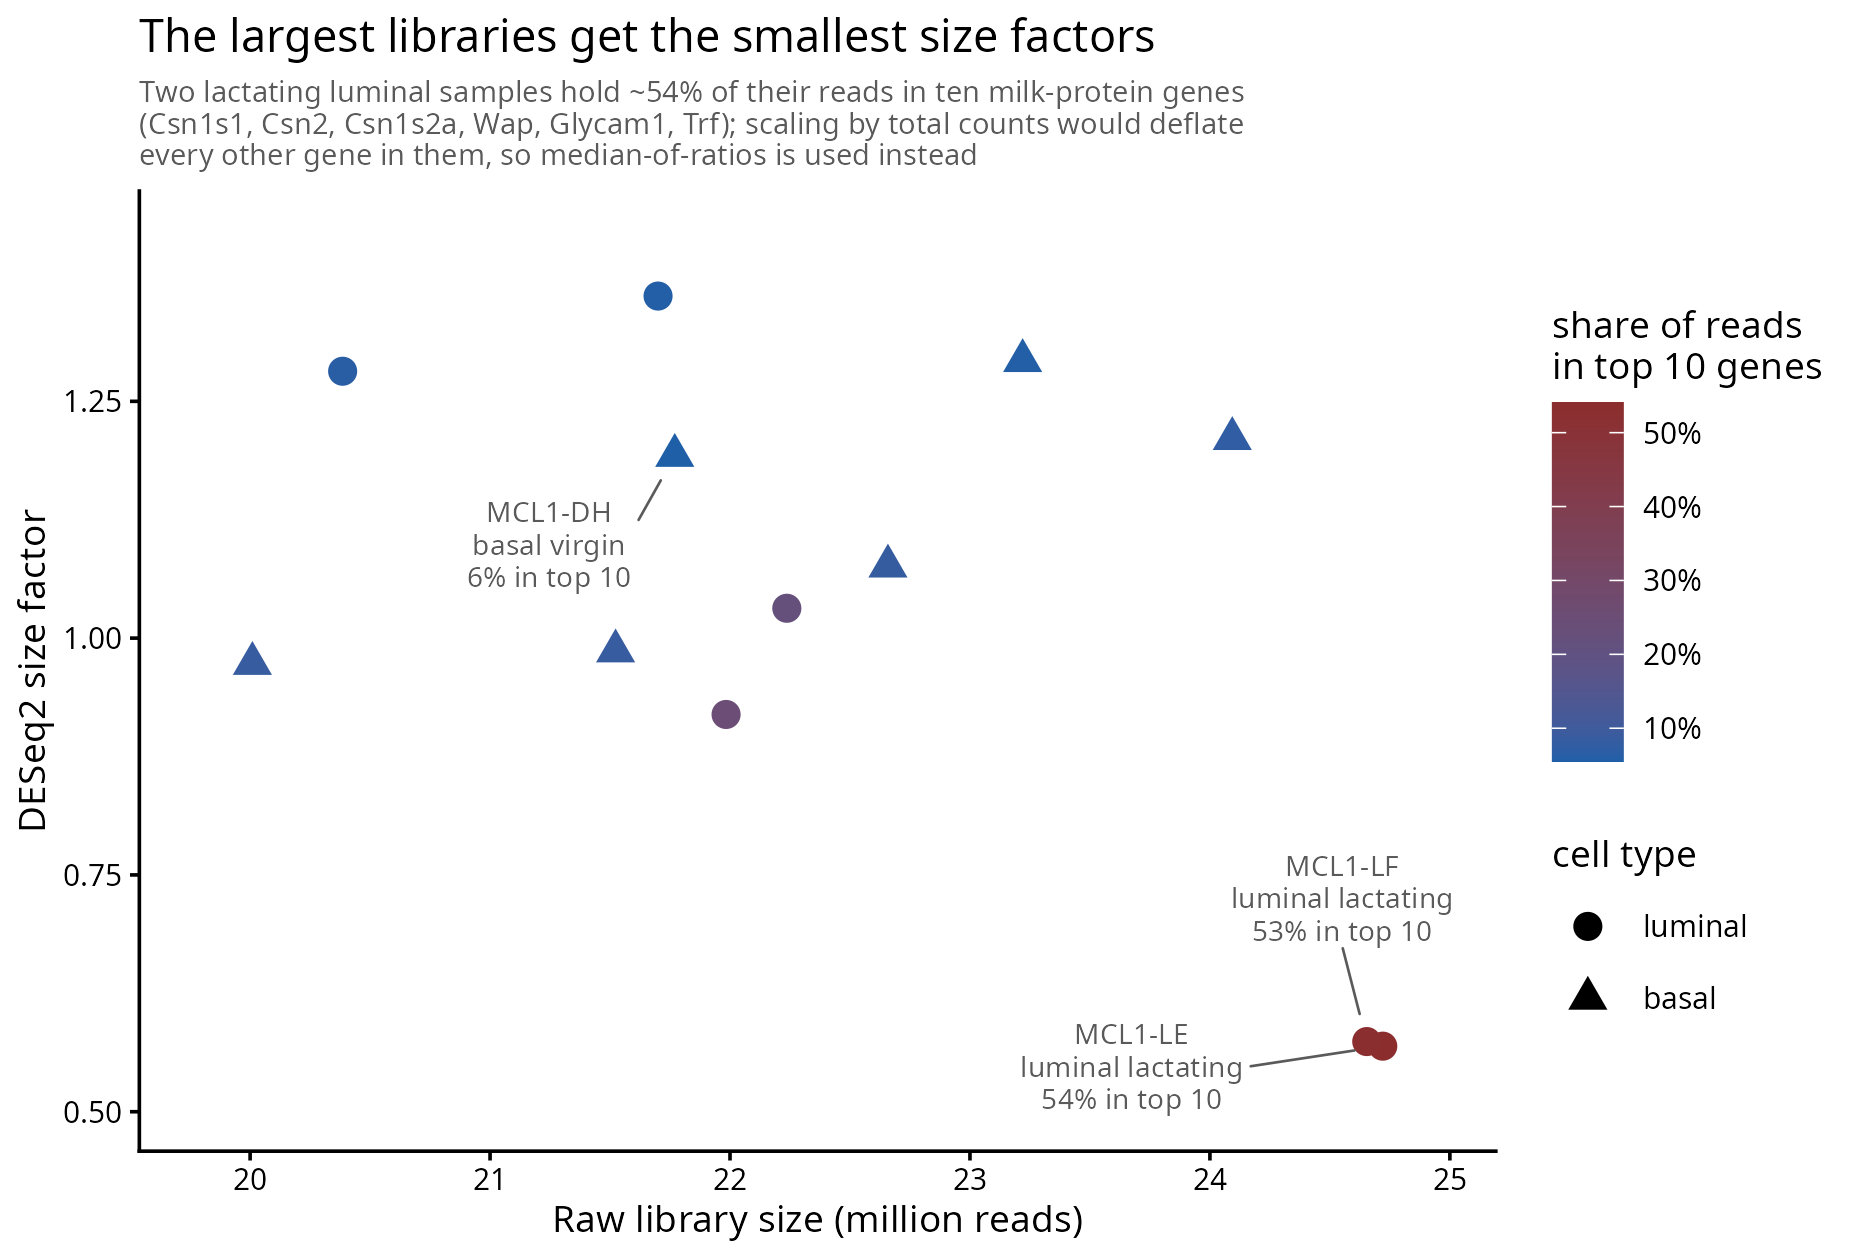
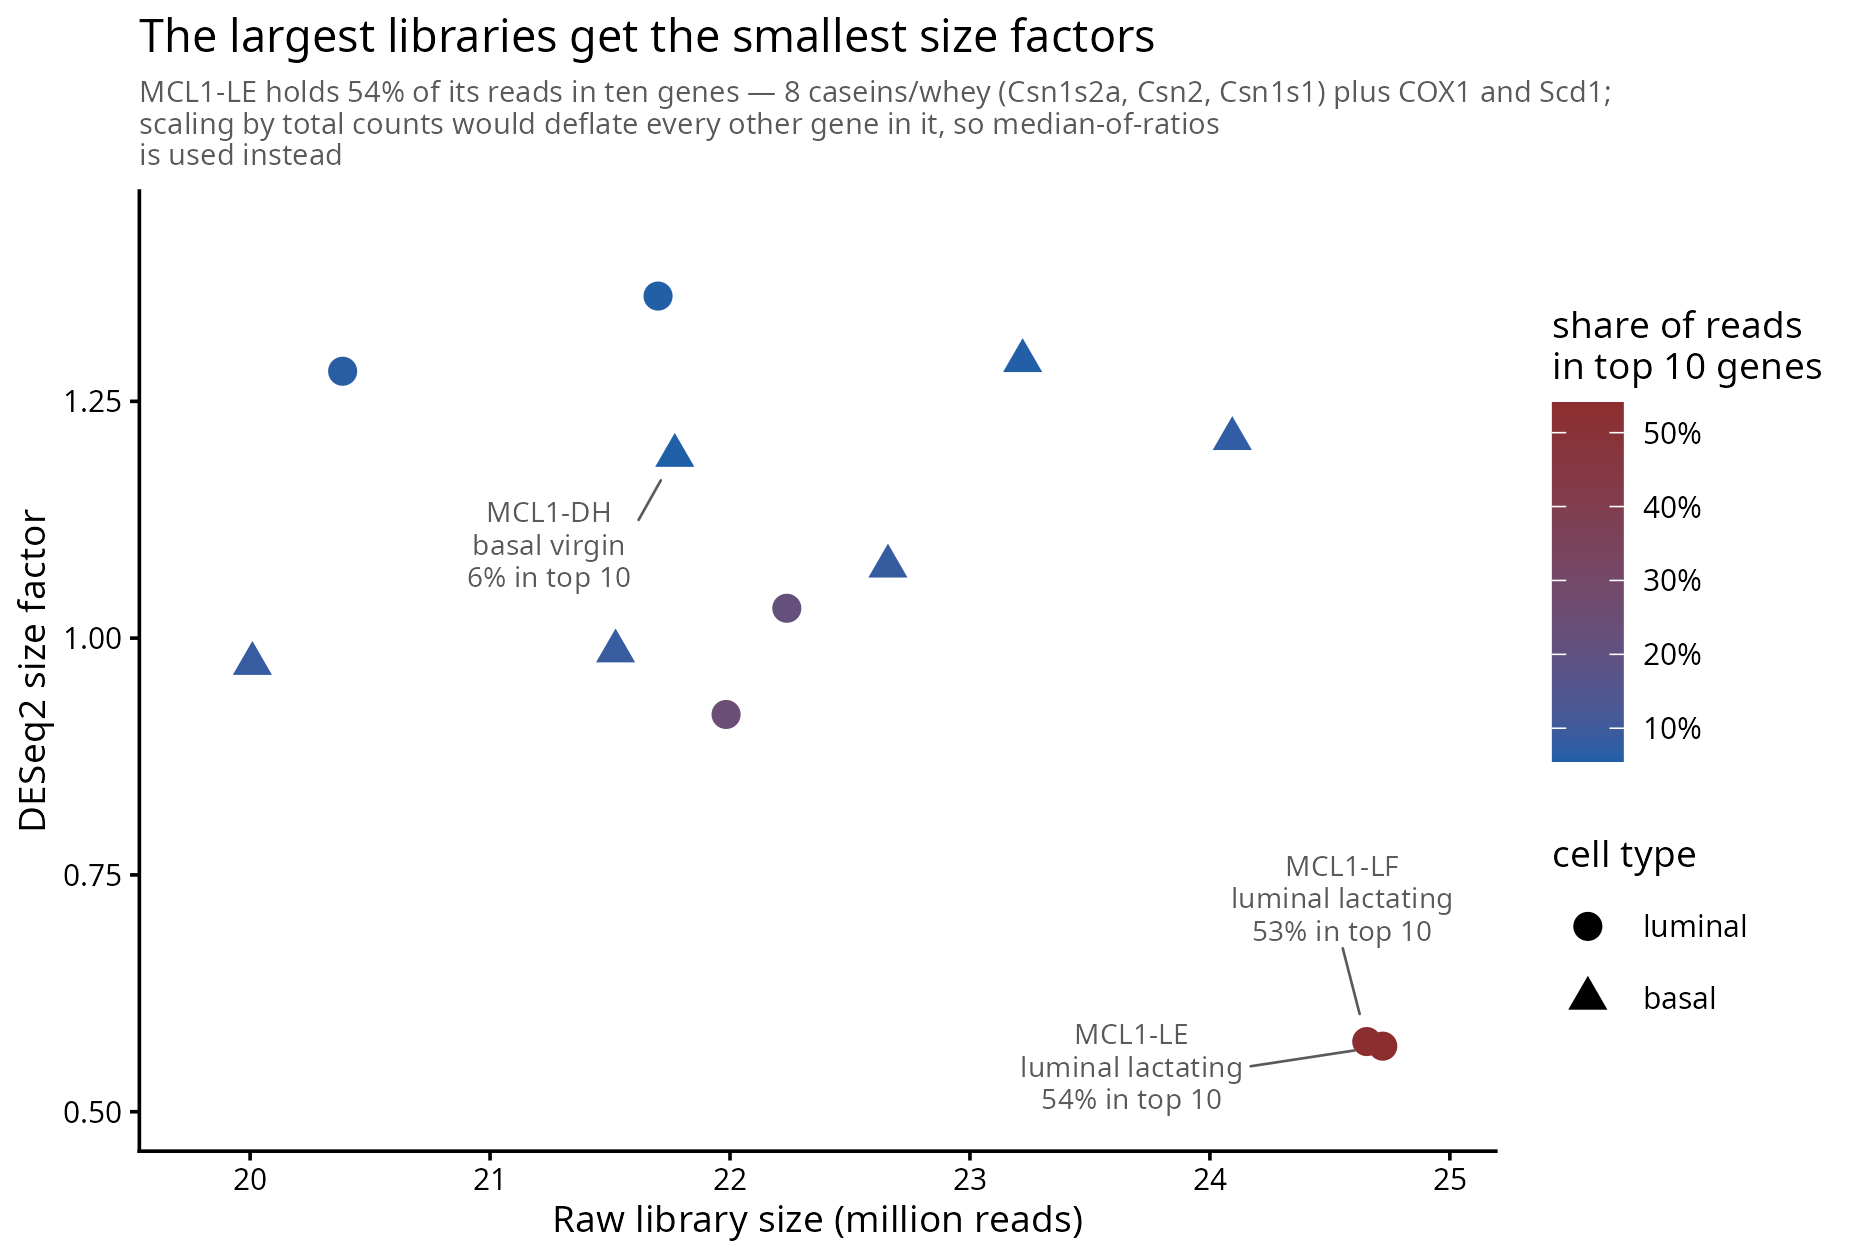
Make the QC subtitle state measured fact, not an assumed gene list
The subtitle claimed all ten top genes in MCL1-LE were milk-protein genes.
Eight are (Csn1s2a, Csn2, Csn1s1, Glycam1, Wap, Trf, Csn3, Spp1); the other two
are COX1 and Scd1. plot_libsize_vs_sizefactor() now takes the symbols and the
milk-family flags as arguments and builds the subtitle from them, so it cannot
drift from the data again.

Two adjacent quantities were also being conflated: the top-10 share (54.1% in
MCL1-LE) and the 17-gene milk-family share (54.0%). They round to the same
number by coincidence, not identity. README now reports 54% and 53% for the two
lactating libraries separately rather than '54% of each'.

Volcano subtitle wrapped to two lines; the one-line form overran the panel.

Changed region(s): [[0.0624, 0.0619, 0.8731, 0.1548]]

diff --git a/README.md b/README.md
@@ -53,16 +53,17 @@ outputs are byte-identical.
 **2. The headline enrichment result is tested against its own artefact
 explanation.** Both contrasts return strong *negative* enrichment for ribosome
 and translation pathways. That is exactly what a normalisation failure would
-also produce here: 17 casein/whey genes occupy **54%** of each lactating
-library, and if size-factor estimation were absorbing that, everything else
-would be pushed down together.
+also produce here: 17 casein/whey genes occupy **54%** and **53%** of the two
+lactating libraries, and if size-factor estimation were absorbing that,
+everything else would be pushed down together.
 
 So `R/06_sensitivity.R` drops the milk-protein genes by gene family (not by
 "top N expressed", which would make the exclusion set depend on the libraries
 under test), refits from raw counts — new size factors, new dispersions, new
 tests — and reruns the enrichment. Result: NES correlation **0.9998** across
-all 717 pathways, no score moving by more than 0.20, all 15 translation sets
-still significant. The signature is a real relative shift, not an artefact.
+all 717 pathways, no score moving by more than 0.20, and every one of the 15
+significant translation sets (of 16 present) still significant — none drops
+out. The signature is a real relative shift, not an artefact.
 Median-of-ratios was already robust to those 17 genes: removing them moves no
 size factor in any of the 12 libraries by more than 0.0014, and the two
 lactating libraries — the ones holding 54% and 53% of their reads in milk
